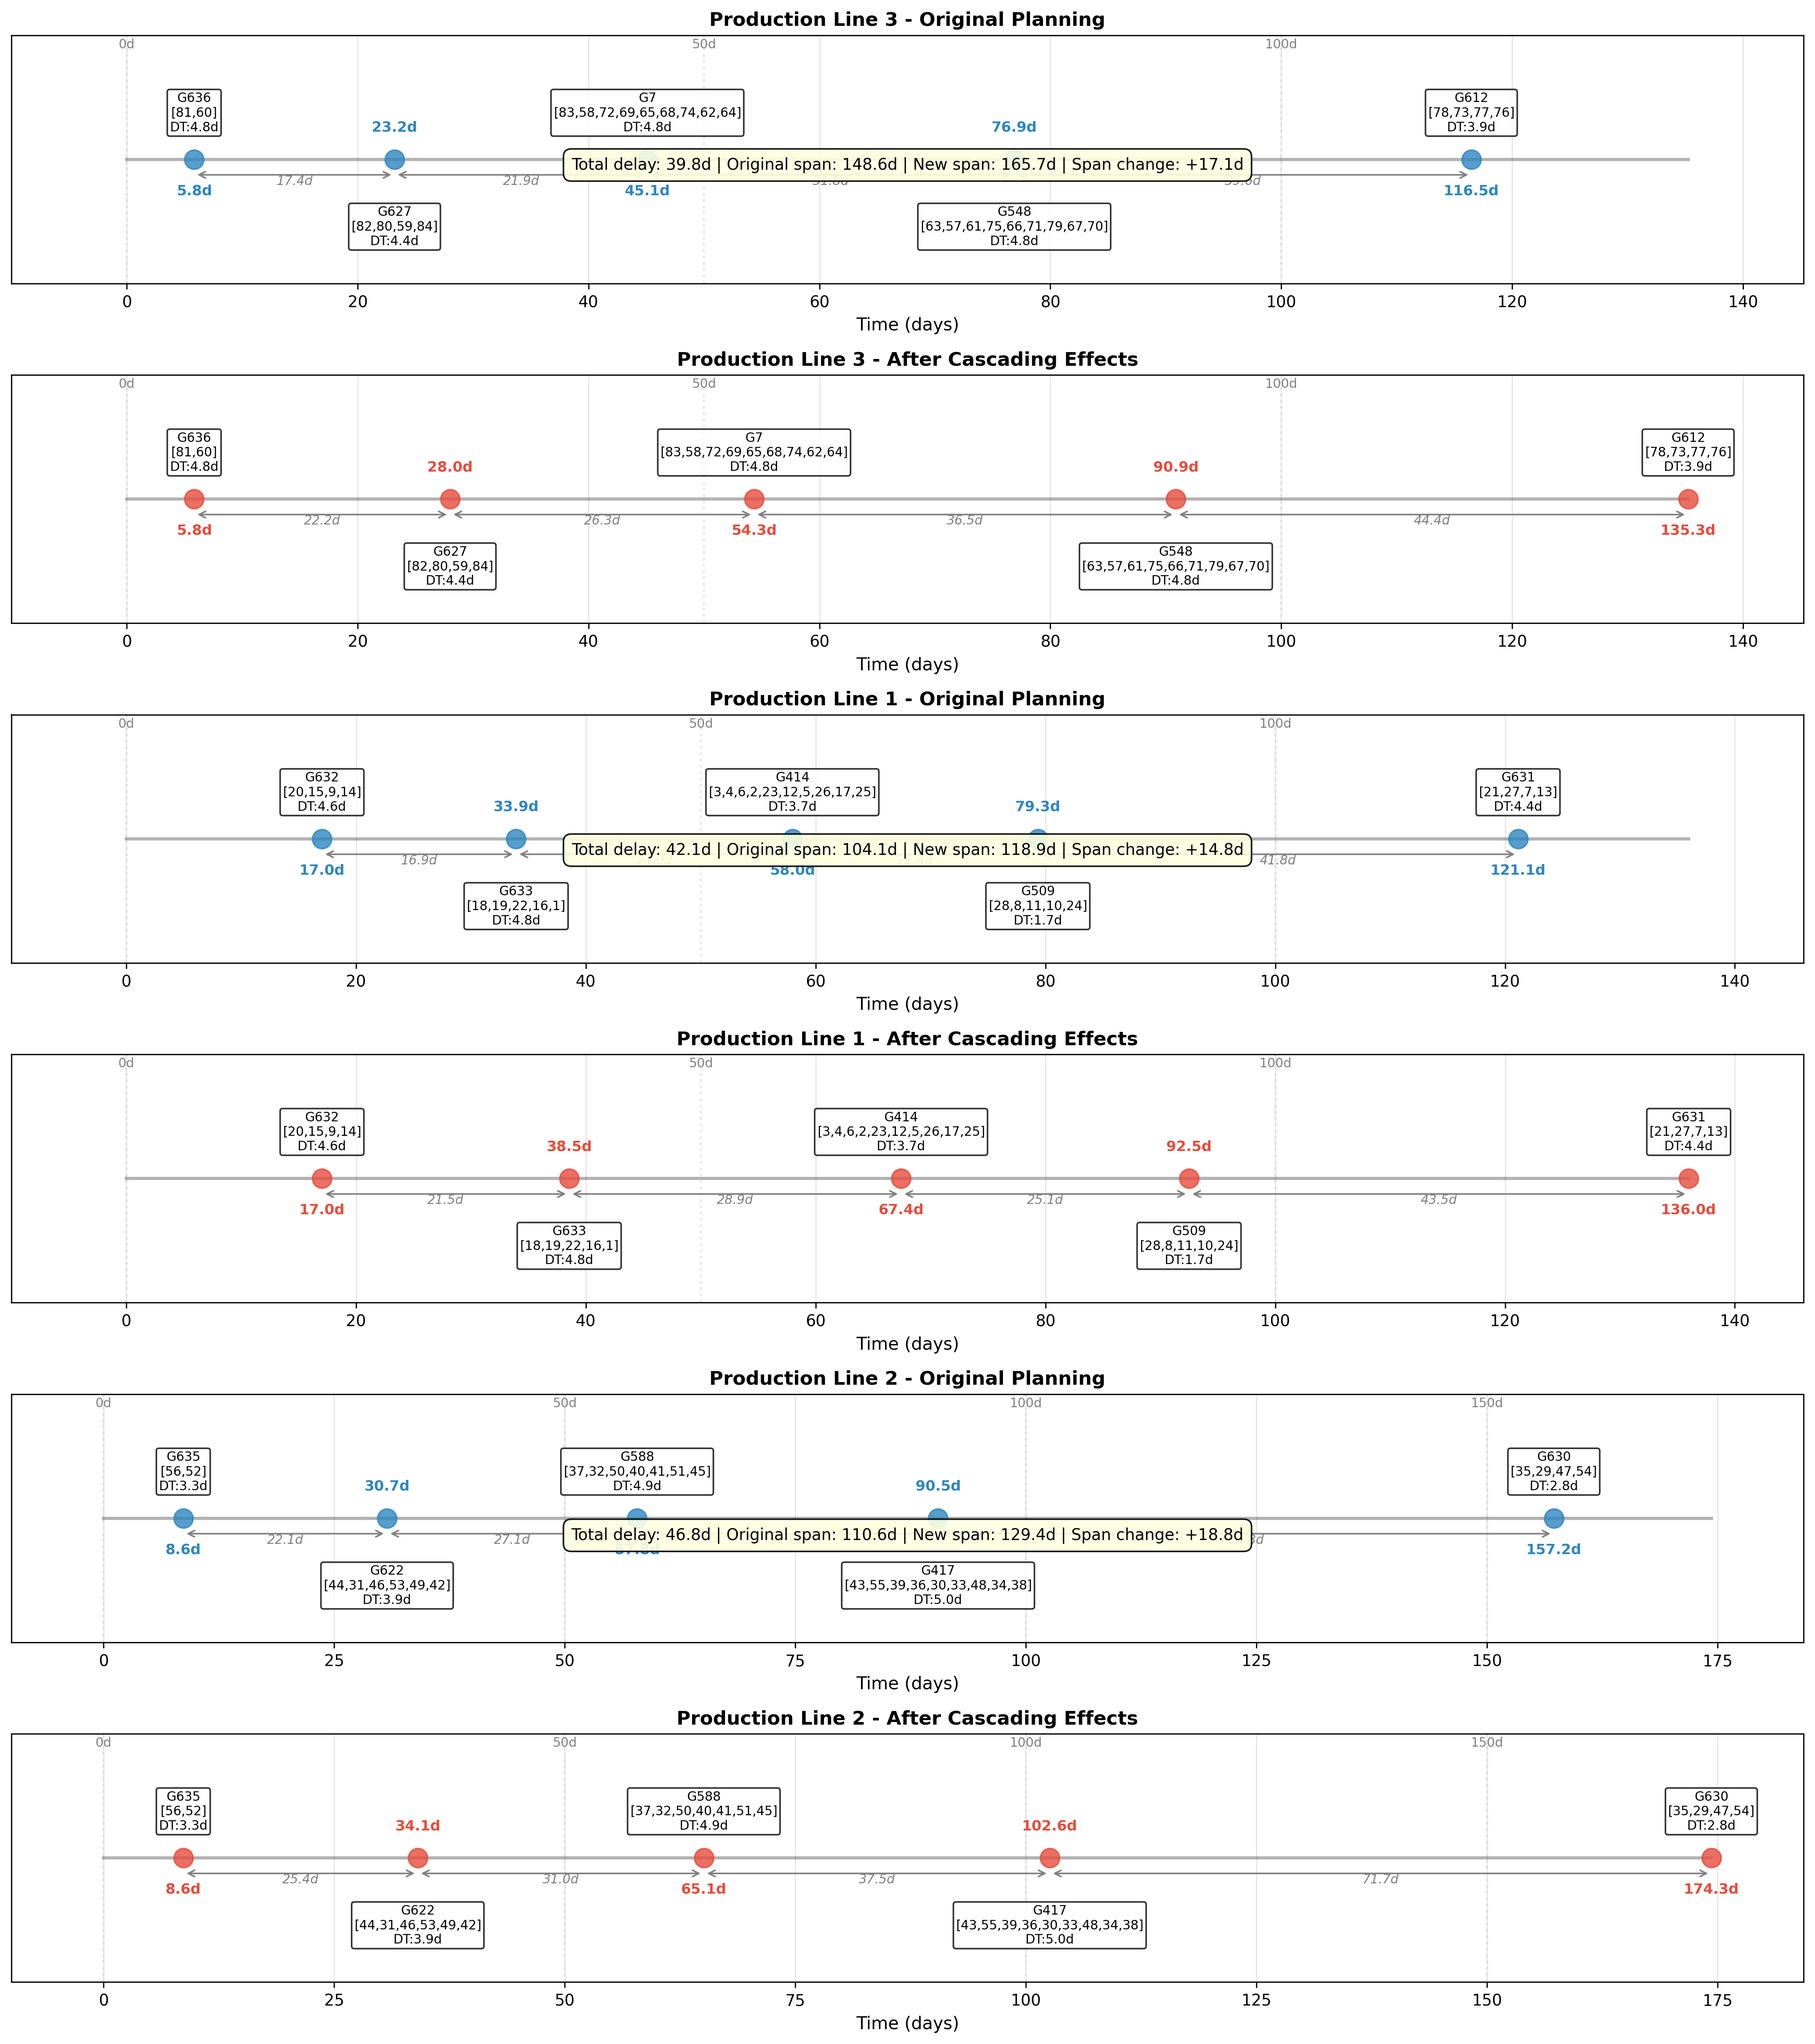
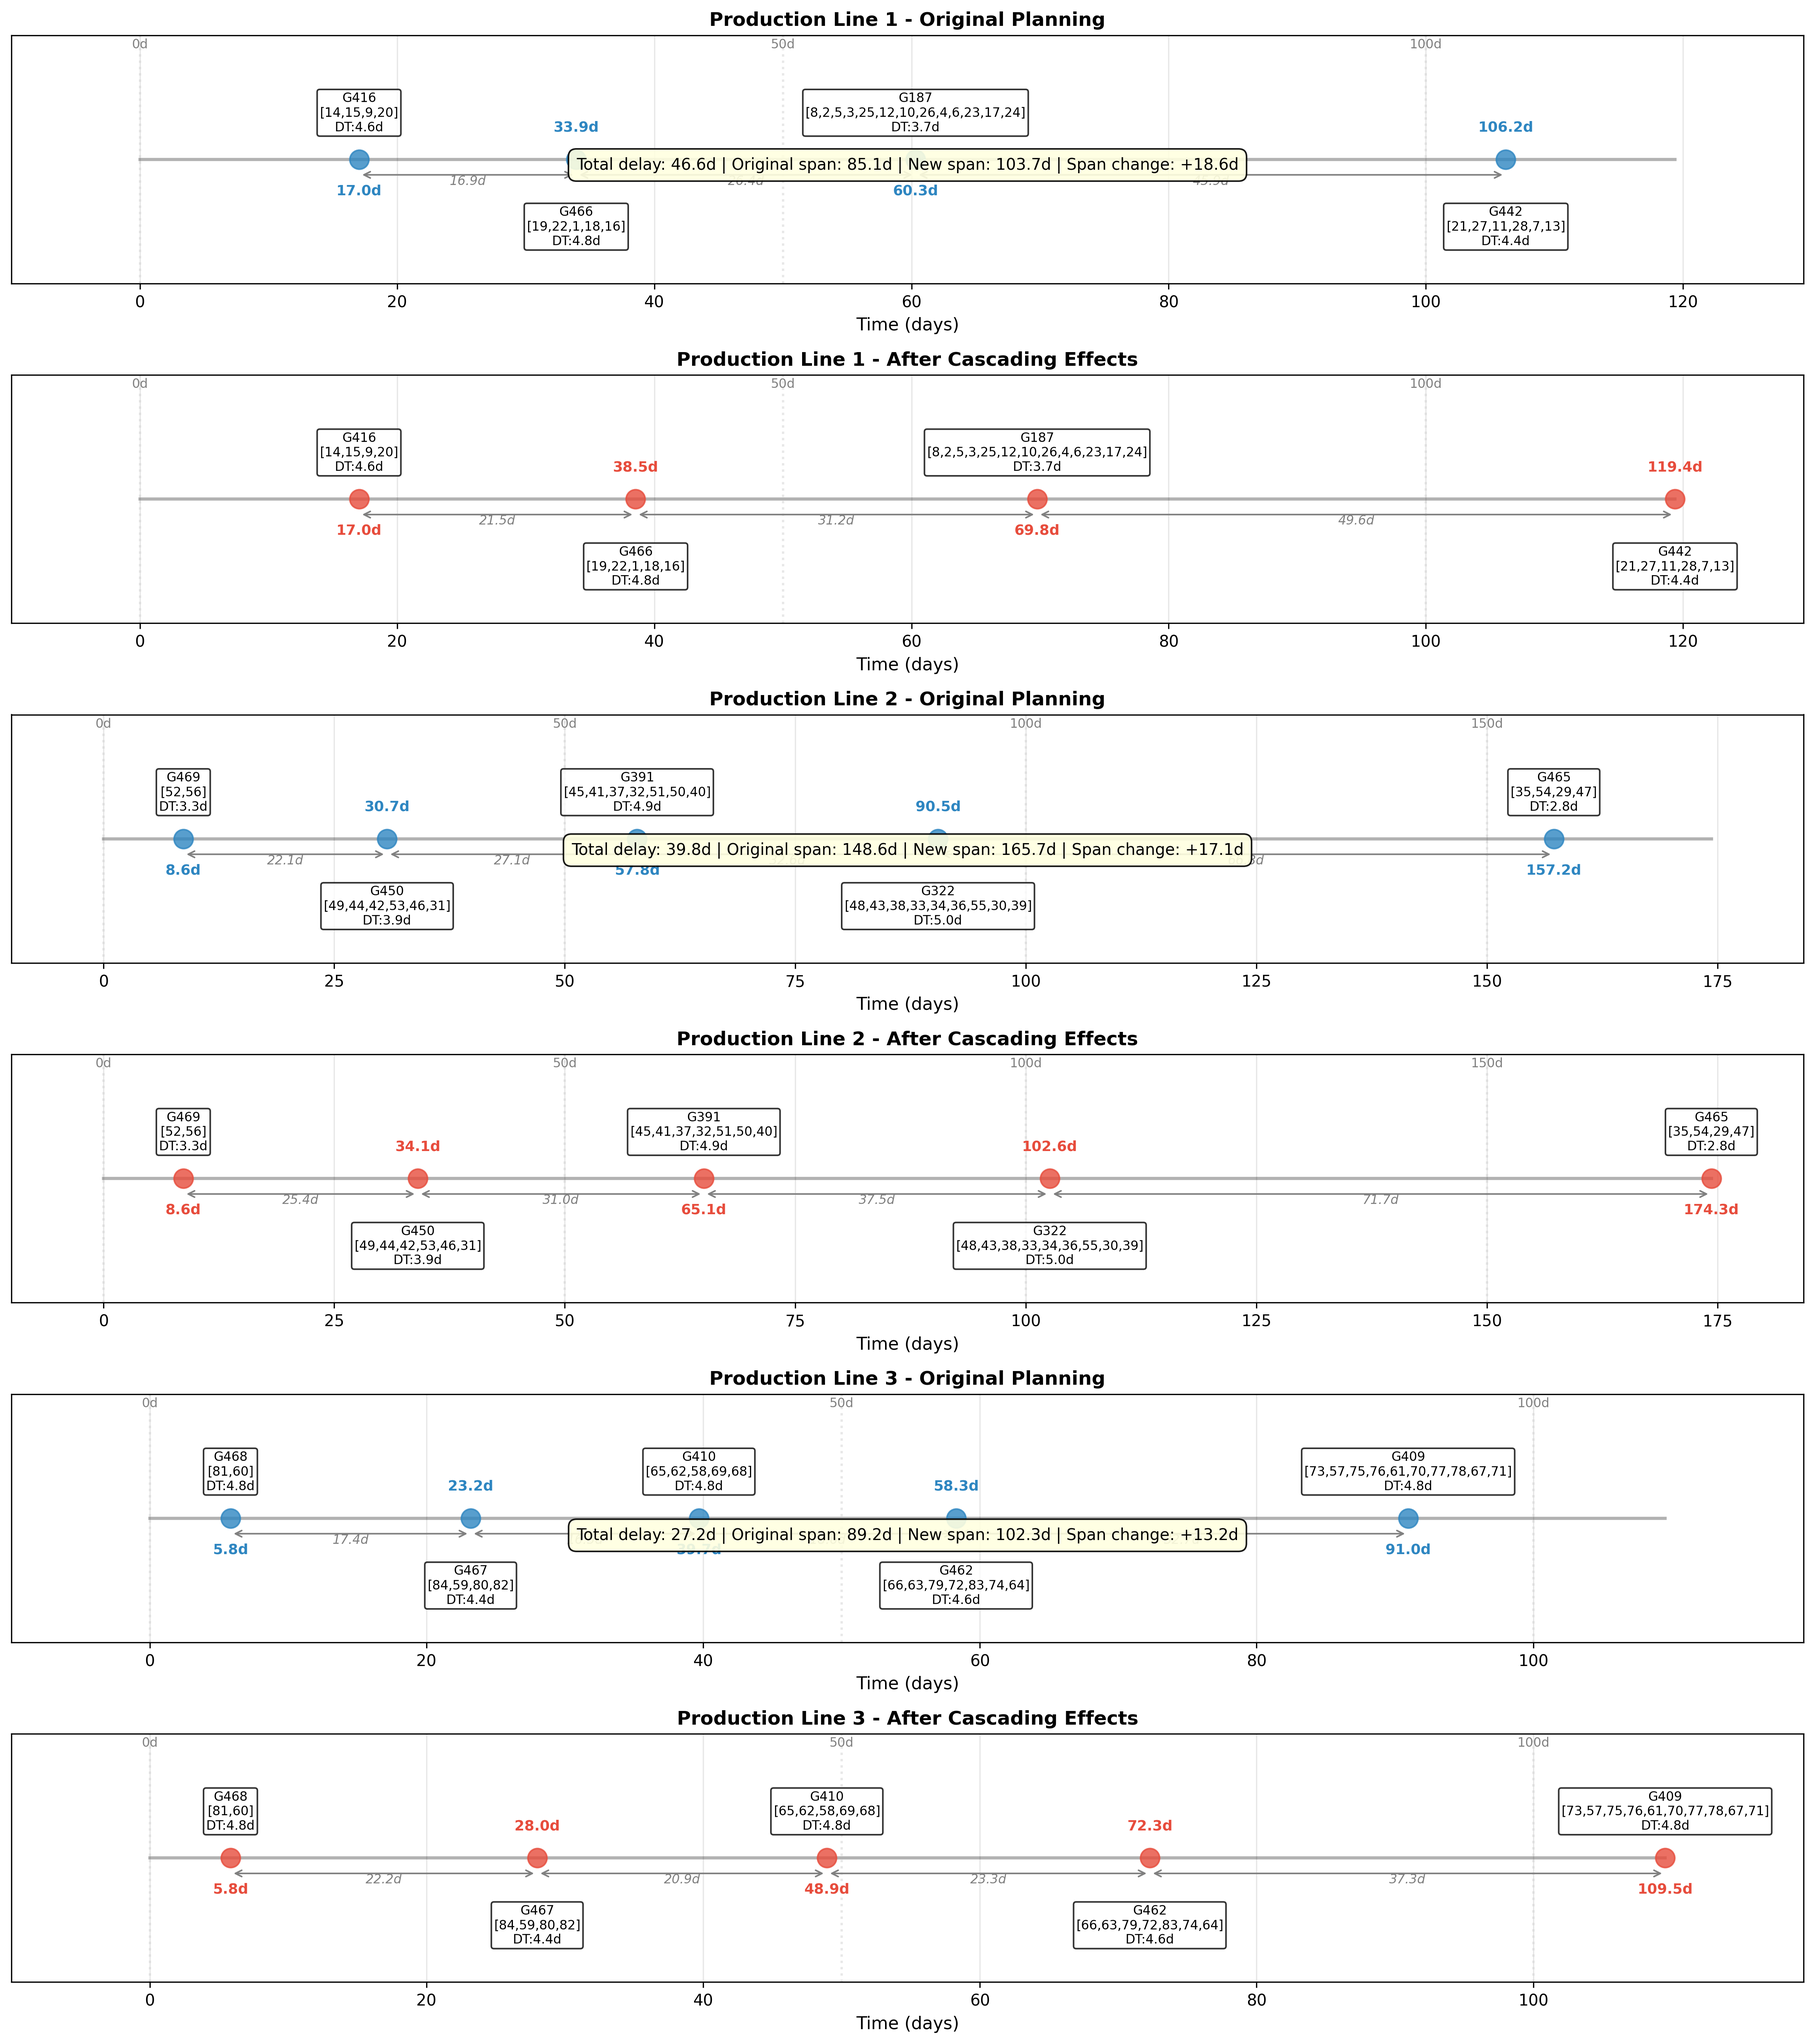
refactor: Remove unused image files and update visualization output path

diff --git a/solver.py b/solver.py
@@ -5,11 +5,8 @@ from production_line import ProductionLine
 from solution import Solution
 from group import Group
 import numpy as np
-
-# Import from reorganized modules
 from cost_functions import compute_optimal_x
 from visualizations import plot_group_economic_profit, plot_feasible_interval_penalty, plot_component_planning_horizon, plot_cascading_effects_comparison
-# Import group_analysis functions to avoid circular import
 from group_analysis import (
     compute_group_economic_profit, 
     find_optimal_group_time,
@@ -22,9 +19,8 @@ from grasp_constructive import grasp_constructive_heuristic
 # Import metaheuristic approaches
 from local_search import local_search_scheme
 from alns import alns_scheme
-# Import moved to avoid circular import
+
 reader = InstanceReader("datasets/testing_dataset.csv")
-# for each row in the data, create a component object and add it to the components list
 components = []
 production_lines = []
 solution = Solution()
@@ -53,7 +49,6 @@ def get_production_line_by_id(id):
             return production_line
     return None
 
-# In the same way we will calculate the downtime cost reduction as each production line is accompanied with its downtime cost rate
 maintenance_durations = data['Duration'].tolist()
 for index, row in data.iterrows():
     component = Component(row['ID'], row['Duration'], row['Corrective_Specific_Cost'], row['Preventive_Specific_Cost'], get_production_line_by_id(row['Production Line']), row['Weibull_Parameter'], row['MTBF'])
@@ -70,13 +65,6 @@ for component in components:
     component.optimal_execution_time = x_opt
     component.long_term_cost_rate = cr_opt
     component.feasible_interval = find_feasible_interval(component, get_production_line_by_id)
-    """
-    print(f"Component {component.id}:")
-    print(f"  Optimal x*: {x_opt:.2f}")
-    print(f"  Feasible interval: {component.feasible_interval[0]:.2f} - {component.feasible_interval[1]:.2f}")
-    print(f"  Cost Rate (CR): {cr_opt:.4f}")
-    print()
-    """
   
 #plot_component_planning_horizon(components, get_production_line_by_id)
 global_best_solution = None

diff --git a/visualizations.py b/visualizations.py
@@ -492,6 +492,6 @@ def plot_cascading_effects_comparison(groups_by_line):
     
     # Save the figure
     random.seed(42)
-    file_id = random.randint(0, 100000)
-    plt.savefig(f'cascading_effects_timeline_{file_id}.png', dpi=300, bbox_inches='tight')
+    #file_id = random.randint(0, 100000)
+    plt.savefig(f'visualizations/cascading_effects_timeline.png', dpi=300, bbox_inches='tight')
     plt.show()
